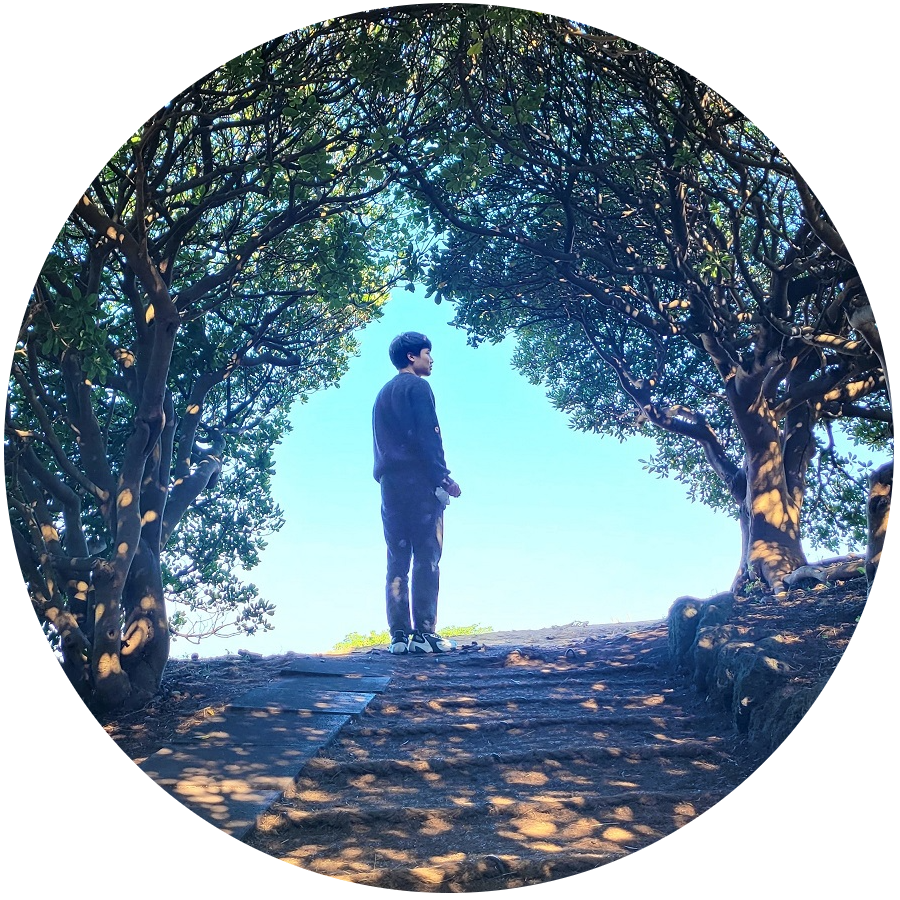
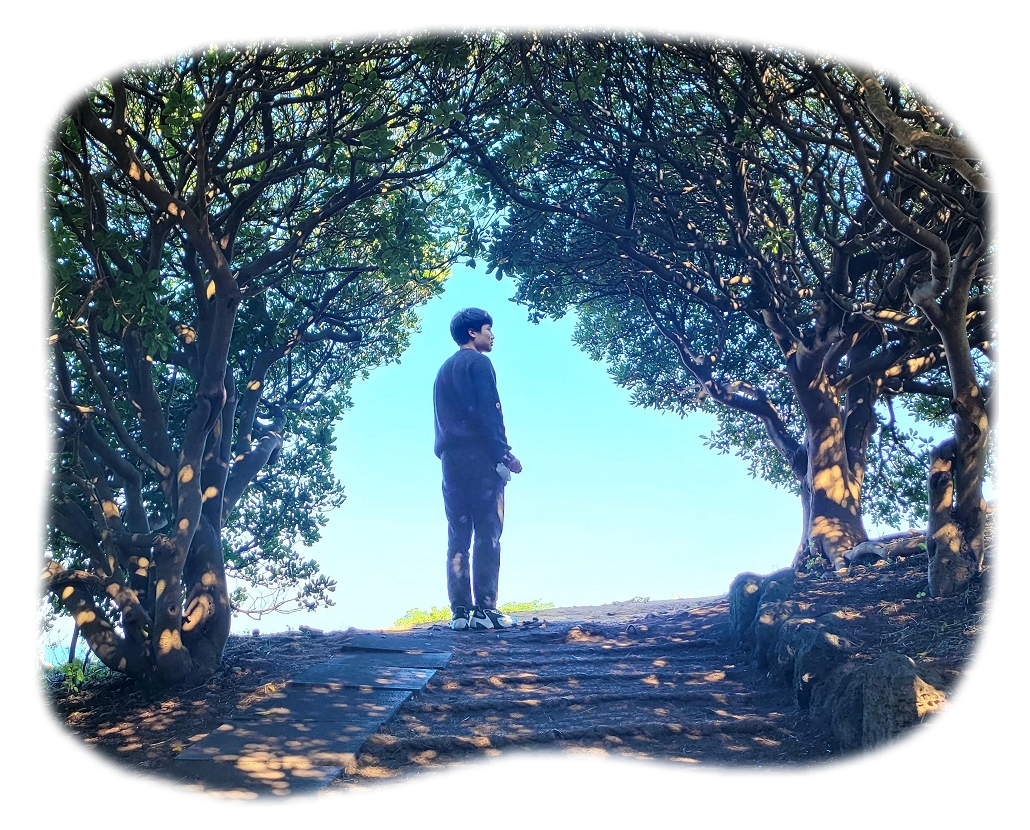
image block issue solved

diff --git a/src/containers/skills/Skills.js b/src/containers/skills/Skills.js
@@ -22,7 +22,7 @@ export default function Skills() {
             ) : (
               <img
                 alt="Man Working"
-                src={require("../../assets/images/developerActivity.svg")}
+                src={require("../../assets/images/developerActivity.svg").default}
               ></img>
             )}
           </div>

diff --git a/src/containers/greeting/Greeting.js b/src/containers/greeting/Greeting.js
@@ -54,7 +54,7 @@ export default function Greeting() {
             ) : (
               <img
                 alt="profile"
-                src={require("../../assets/images/profile.png")}
+                src={require("../../assets/images/profile.png").default}
               ></img>
             )}
           </div>

diff --git a/src/containers/greeting/Greeting.css b/src/containers/greeting/Greeting.css
@@ -43,8 +43,12 @@
   line-height: 40px;
 }
 
+.greeting-image-div {
+  text-align: center;
+}
+
 .greeting-image-div > img {
-  max-width: 100%;
+  max-width: 90%;
   height: auto;
 }
 
@@ -106,7 +110,7 @@
     display: block;
   }
   .greeting-image-div {
-    height: 256px;
+    height: 350px;
   }
 }
 
